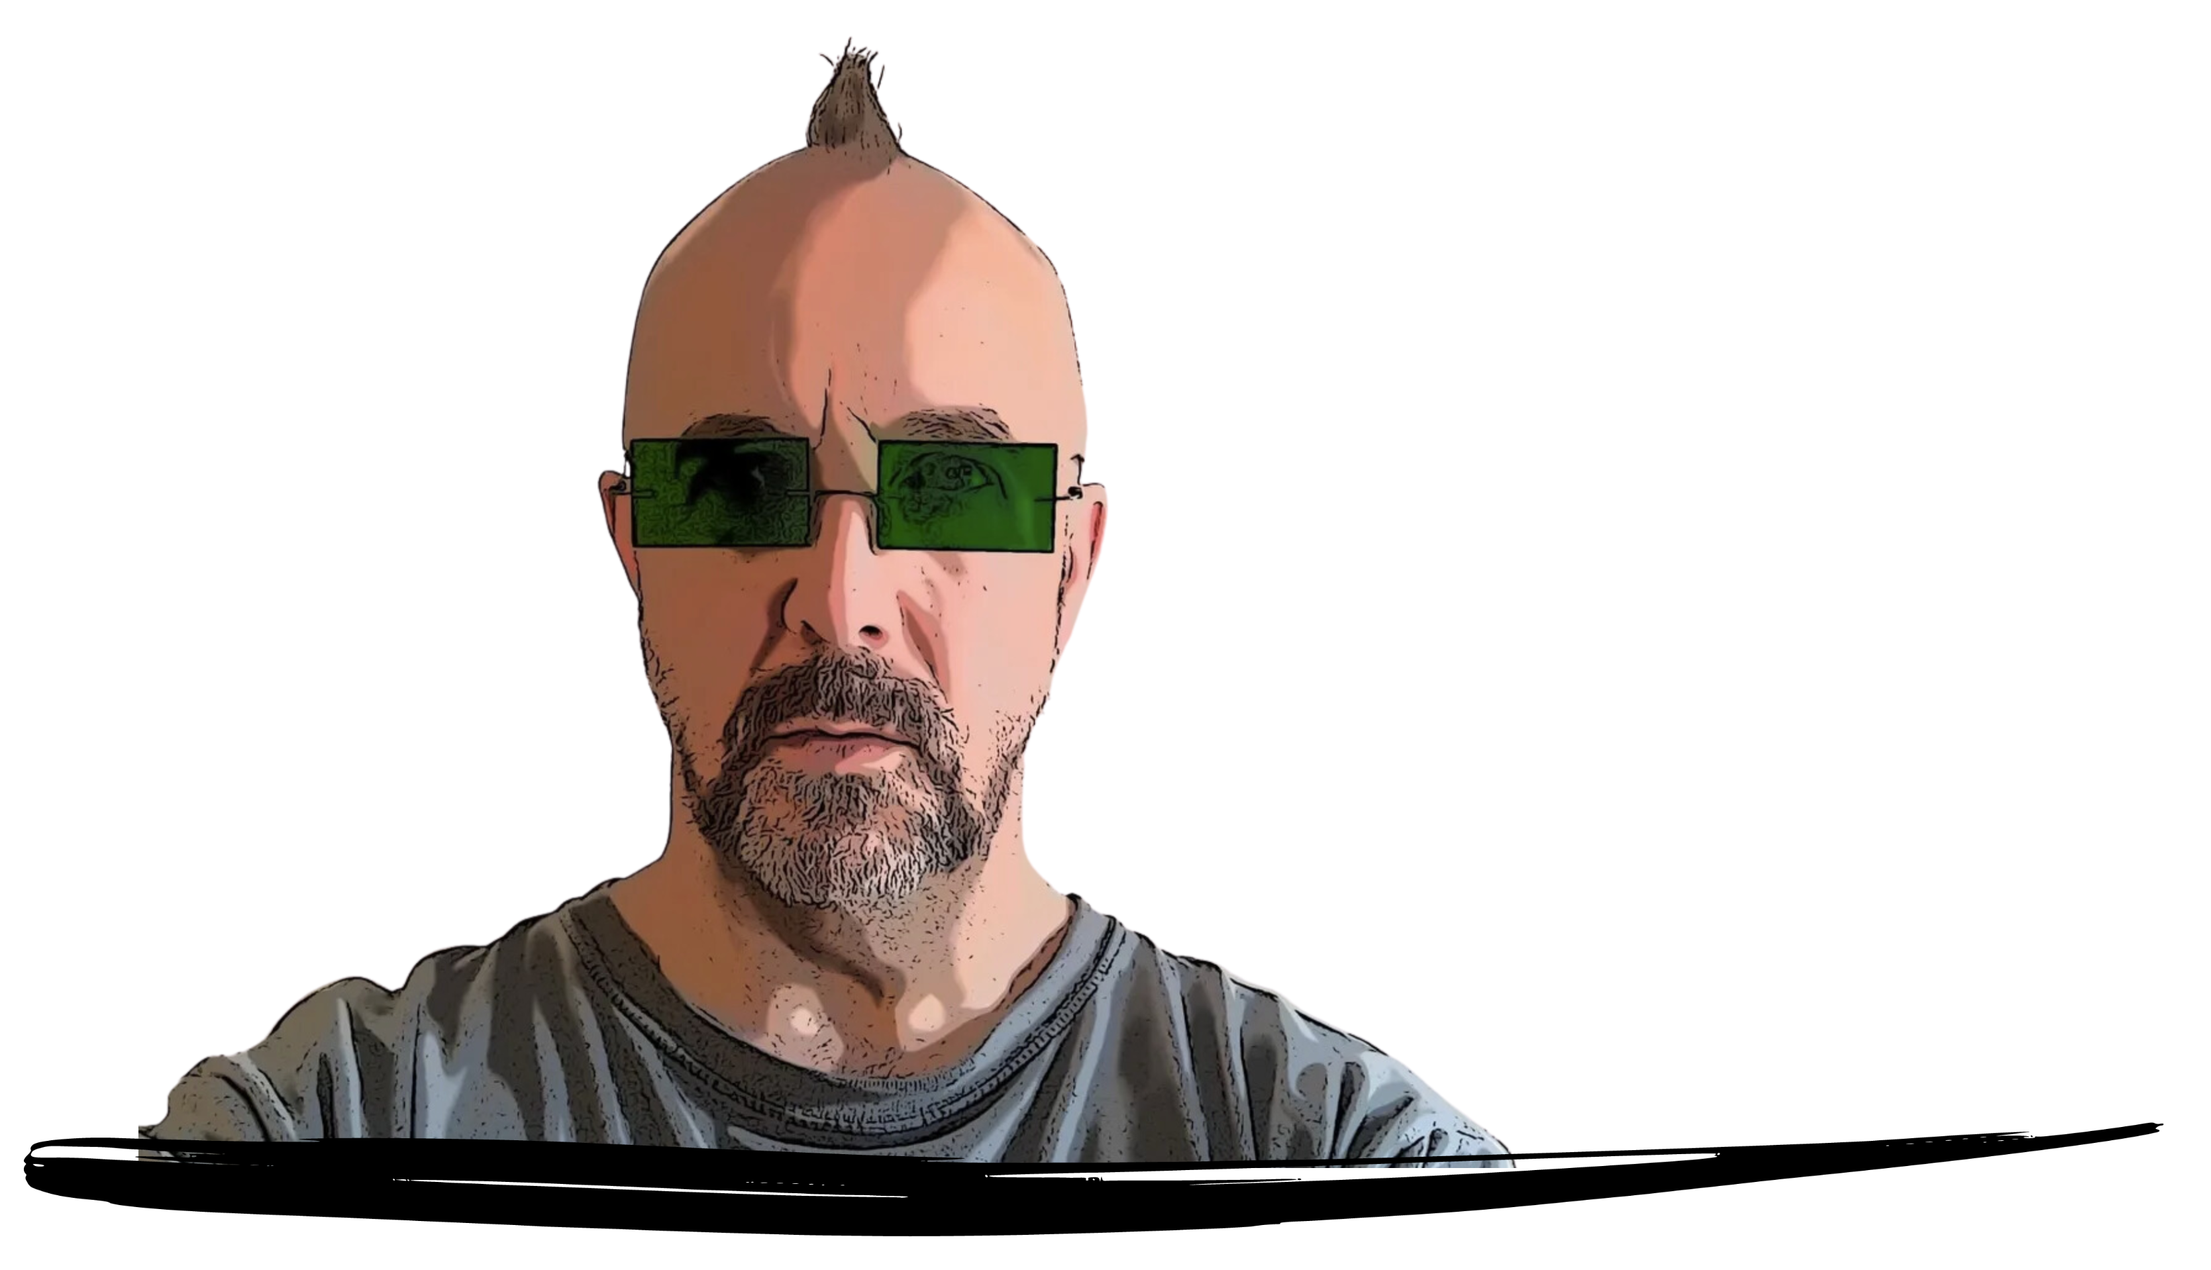
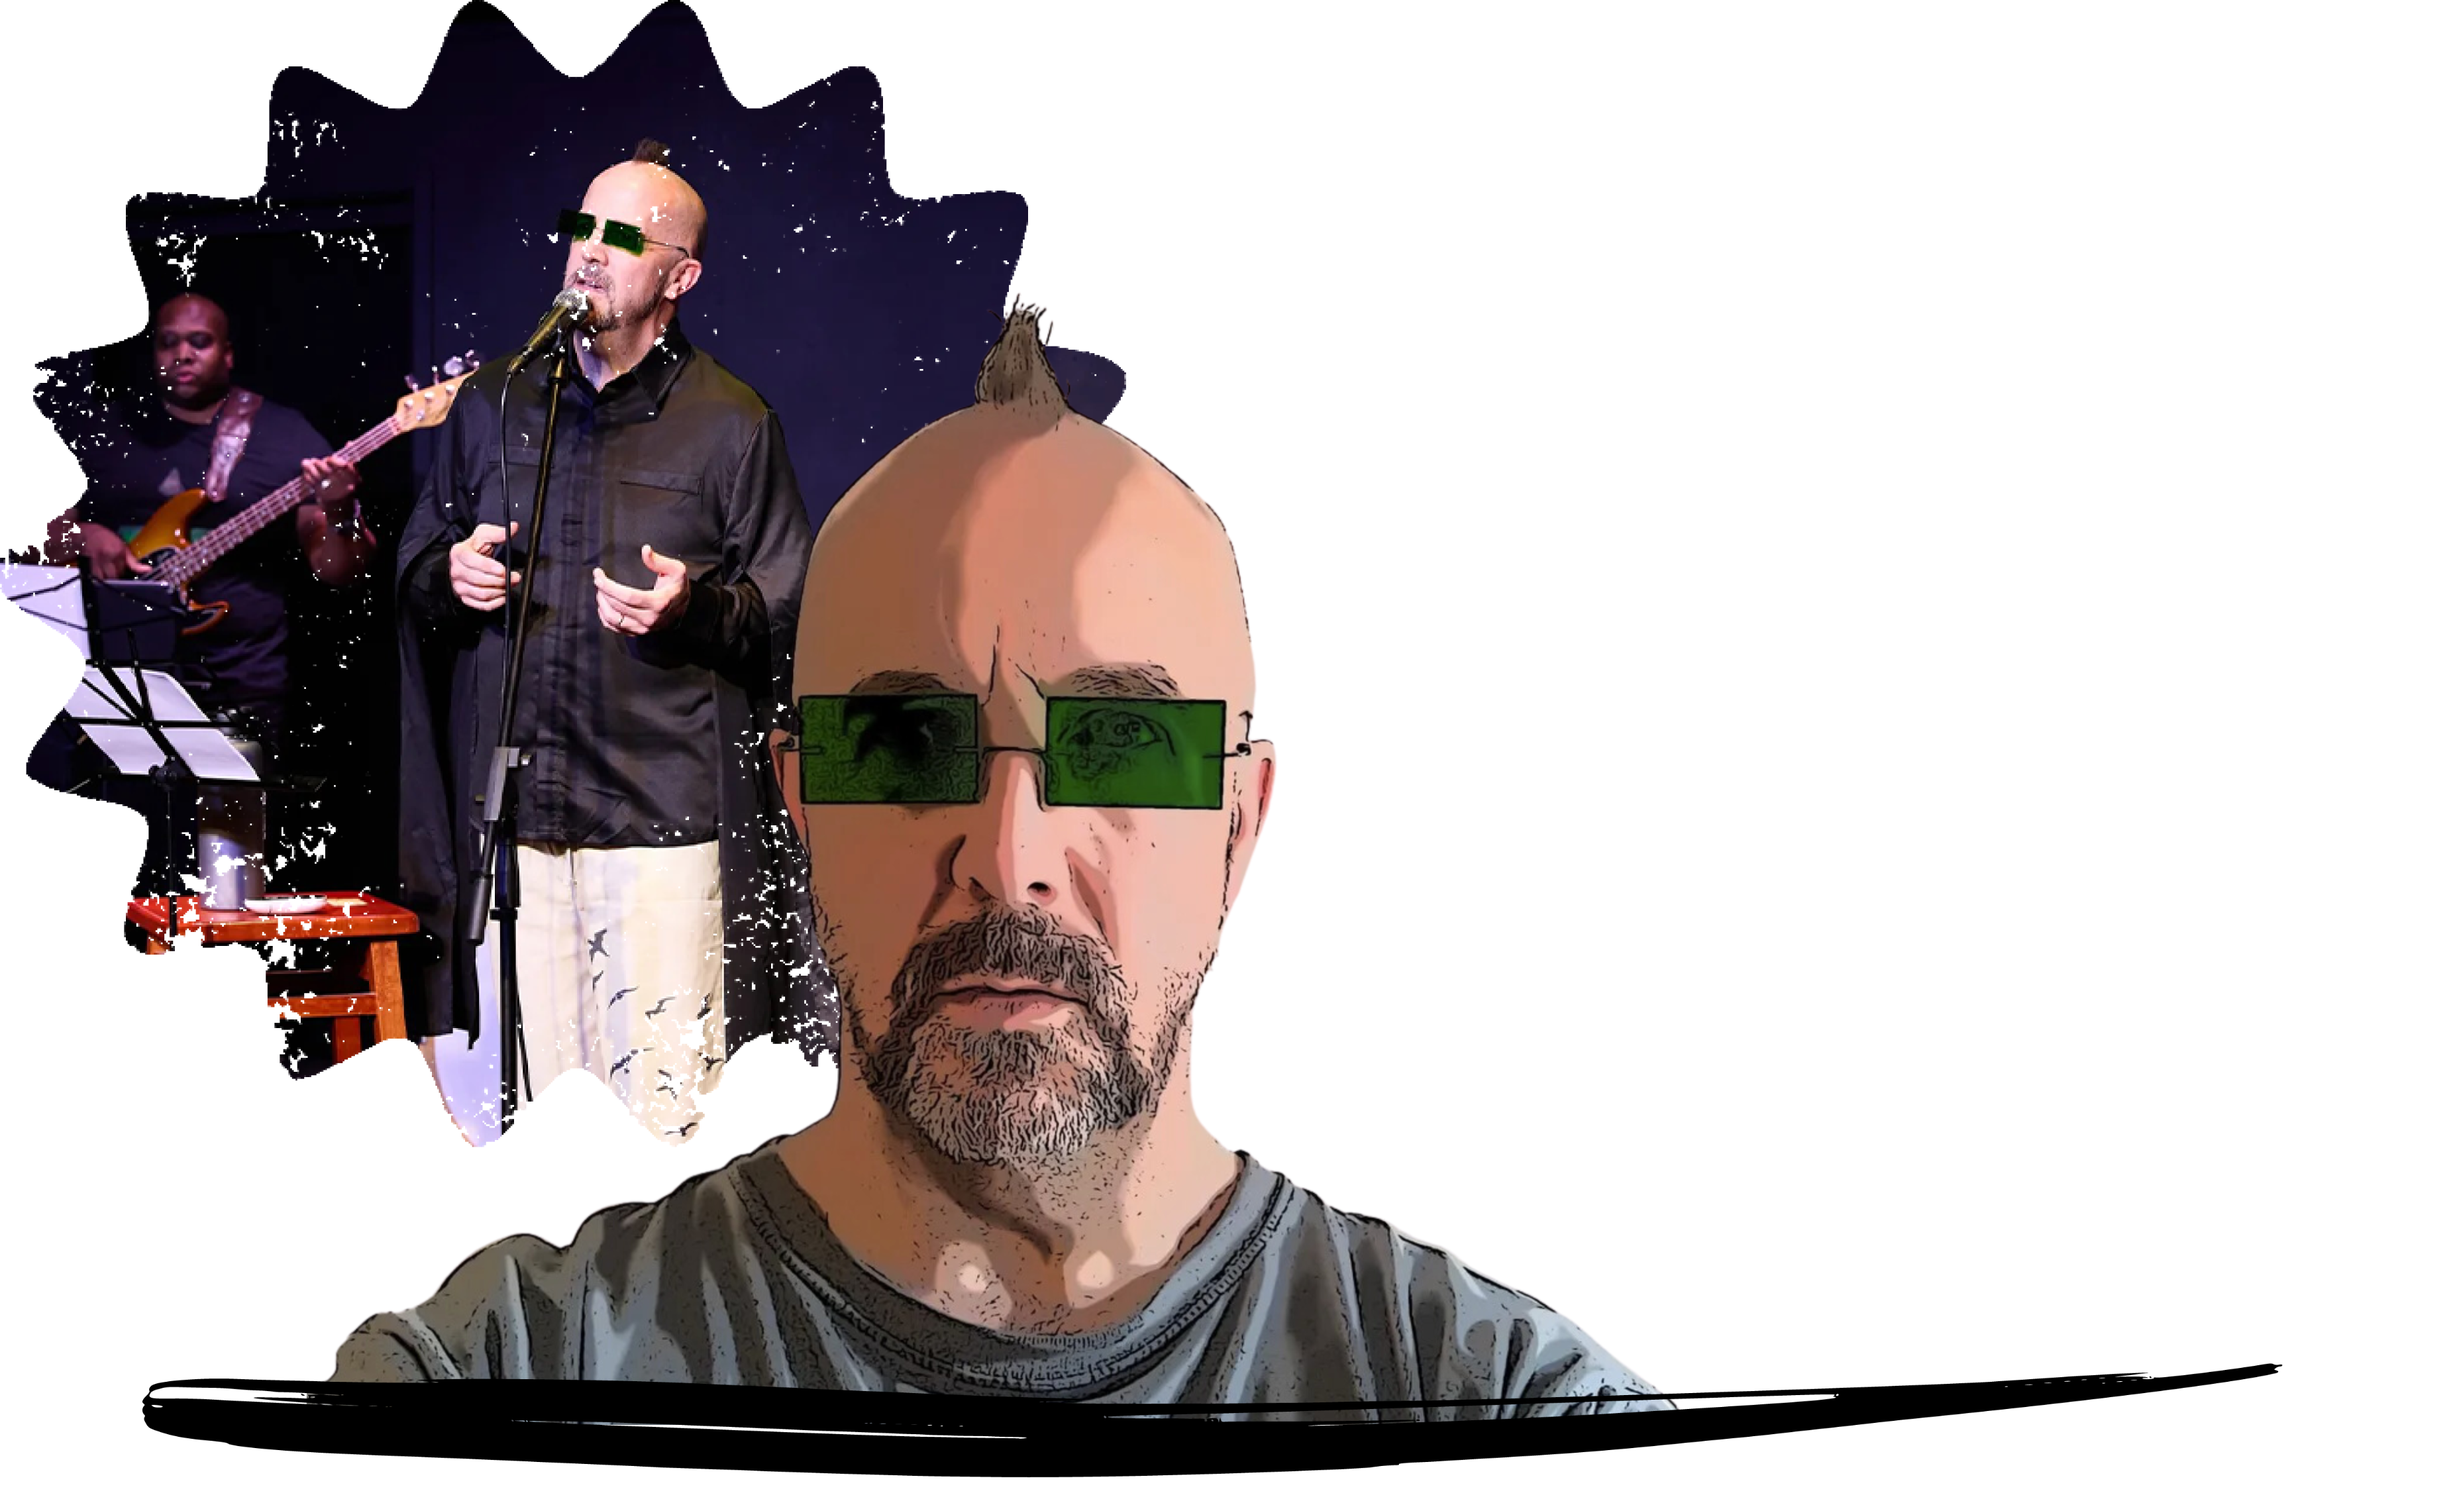
update landing background image and corresponding styling

diff --git a/src/pages/Landing/Landing.css b/src/pages/Landing/Landing.css
@@ -7,40 +7,48 @@
   flex-direction: column;
   justify-content: center;
   align-items: flex-end;
+  /* padding-top: 10vh; */
 }
 
 .landing-background {
   /* background-color: red; */
   height: 81%;
+  height: 100vh;
   width: 100%;
   position: absolute;
   z-index: -5;
   display: flex;
-  justify-content: center;
+  justify-content: flex-start;
   align-content: center;
   align-items: center;
   /* top: 5vmin; */
-  /* top: 0; */
+  top: 0;
   /* bottom: 0; */
   text-align: center;
+  padding-top: 7vh;
+  padding-bottom: 15vh;
+  padding-left: 5vh;
 }
 
 #backBack {
   /* display: flex; */
-  justify-content: flex-start;
+  /* justify-content: flex-start; */
   /* align-items: flex-start; */
   /* padding: 5%; */
 }
 
 #landing-img {
-  max-width: 90%;
-  position: relative;
-  /* z-index: -5; */
-  top: 0;
-  left: 0;
+  max-height: 80vh;
+  max-width: 100vw;
+  /* position: relative; */
+  z-index: -5;
+  /* top: 5vh; */
+  left: 5vw;
+  /* padding-top: 5vh; */
+  /* margin-top: 5vh; */
 }
 
-#landingBackImg {
+/* #landingBackImg {
   position: relative;
   max-width: 35%;
   z-index: -6;
@@ -48,7 +56,7 @@
   left: 0;
   border-radius: 40px;
   border: 5px solid #2E9D29;
-}
+} */
 
 #spenceGear {
   /* position: absolute;
@@ -56,12 +64,12 @@
   z-index: -6;
   top: 0;
   left: -5%; */
-  position: relative;
-  max-width: 65%;
-  min-width: 50%;
+  /* position: relative;
+  max-width: 55%;
+  min-width: 40%;
   z-index: -6;
-  top: 0;
-  left: -2%;
+  top: -10%;
+  left: 5%; */
 }
 
 

diff --git a/src/pages/Landing/Landing.jsx b/src/pages/Landing/Landing.jsx
@@ -4,14 +4,14 @@ import './Landing.css'
 const Landing = () => {
   return (
     <main id='landing-main'>
-      <div id='backBack' className='landing-background'>
-        {/* <img id='landingBackImg' src="./spenceLandingBack.png" alt="" /> */}
+      {/* <div id='backBack' className='landing-background'>
+        <img id='landingBackImg' src="./spenceLandingBack.png" alt="" />
         <img id='spenceGear' src="./spenceGear.png" alt="" />
-      </div>
+      </div> */}
       <div className='landing-background'>
-        <div>
+        {/* <div> */}
           <img id='landing-img' src="./landingImg.png" alt="Stylized image of musician Spence Cook"/>
-        </div>
+        {/* </div> */}
       </div>
       <div id='splashTxt-container'>
         <div>

diff --git a/src/components/Footer/Footer.css b/src/components/Footer/Footer.css
@@ -4,7 +4,7 @@
   bottom: 0;
   background-color: black;
   width: 100%;
-  max-height: 17vmin;
+  height: 15vh;
   display: flex;
   justify-content: space-around;
   /* padding: 4vh 0; */

diff --git a/src/App.css b/src/App.css
@@ -39,7 +39,7 @@ main {
   overflow-x: hidden;
   margin: 0;
   padding-top: 5vh;
-  padding-bottom: 17vmin;
+  padding-bottom: 15vh;
 }
 
 
